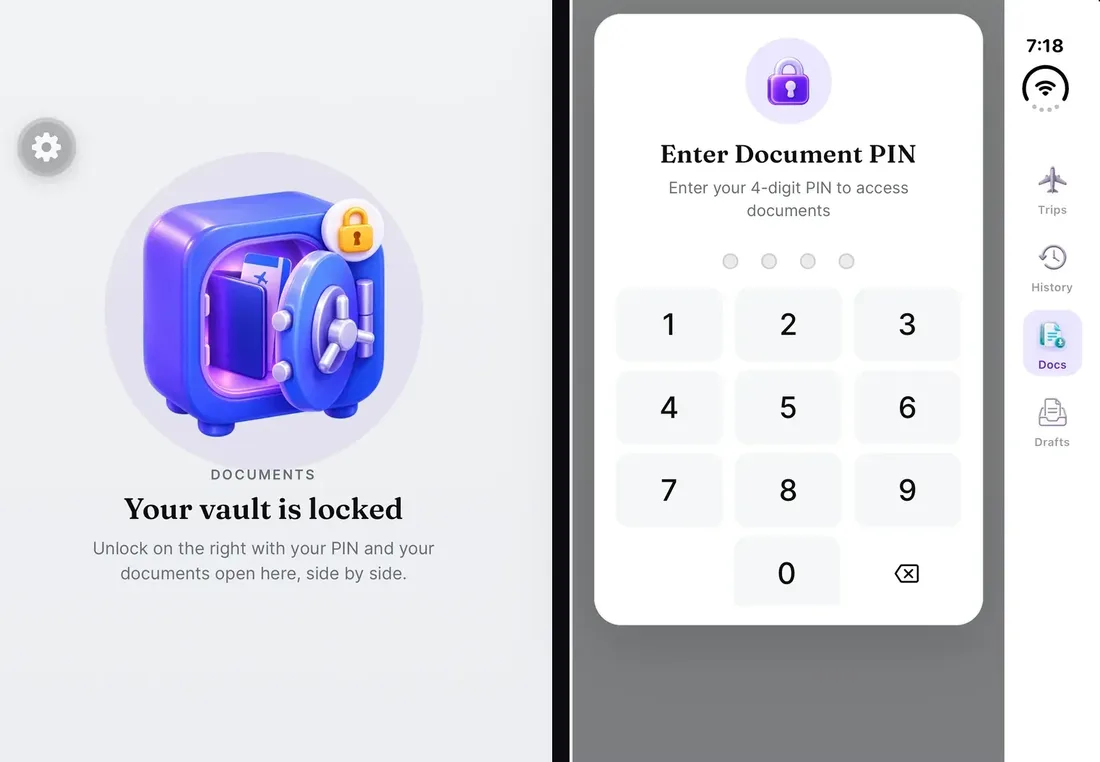
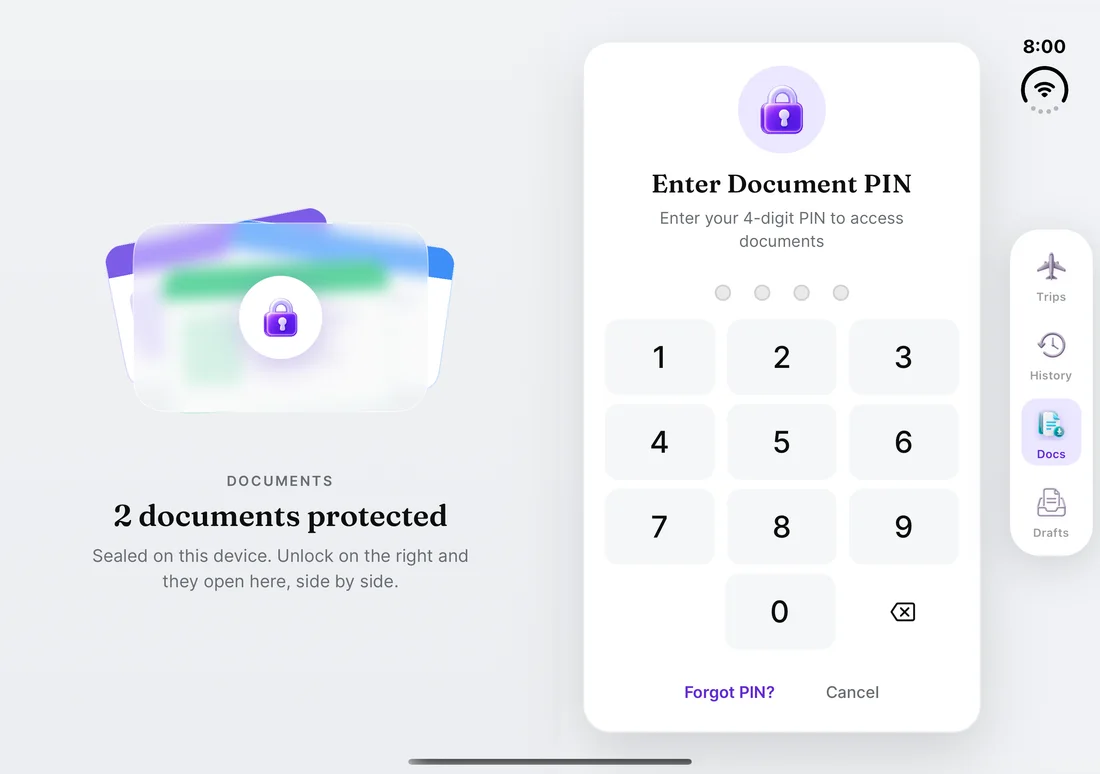
iPhone Duo guide: retake screenshots from the current app UI
Flight, trip and documents screens captured on the iOS 27.1 Duo
simulator (inner display, flat, sideways) from trip-cache-app main,
with the Expo tools button off and the traveler's name blurred.
Alt text and captions now describe the new screens.

diff --git a/content/blog/iphone-duo-travel-apps.ts b/content/blog/iphone-duo-travel-apps.ts
@@ -36,7 +36,7 @@ iPhone Duo went on sale on 23 October 2026. Apple said the day before that more 
 > - Unoptimized apps still run, but in a smaller box on the inner display.
 > - TripCache keeps what you were looking at in place when you open the phone and adds a second page beside it.
 
-![TripCache on iPhone Duo's inner display: a flight board on the left page and the Qantas QF 9401 flight details with a route map on the right](/blog-media/iphone-duo-flight-two-panes.webp 1100x762 "TripCache's flight page on the open Duo: the board on the left, the flight you were viewing on the right.")
+![TripCache on iPhone Duo's inner display: an airport arrivals board for Virgin Australia VA 419 from Adelaide on the left page, and the flight's route map, times, boarding time and seat on the right](/blog-media/iphone-duo-flight-two-panes.webp 1100x774 "A flight on the open Duo: the arrivals board on the left, the flight you were viewing on the right.")
 
 ## How to tell if an app is built for iPhone Duo
 
@@ -66,13 +66,13 @@ The new page fades in from a soft blur as the hinge opens, so nothing flashes or
 
 ### Trips: a cover and its contents
 
-Open a trip with the phone held sideways and it becomes two pages. The left page is the cover: the destination photo, dates, counts of flights, stays and documents, and the trip budget. The right page is the itinerary. The map, budget and documents slide in over the itinerary while the cover stays put.
+Open a trip with the phone held sideways and it becomes two pages. The left page is the cover: the destination photo, dates, counts of flights, hotels, cars and activities, and buttons for the budget, map and documents. The right page is the itinerary. The map, budget and documents slide in over the itinerary while the cover stays put.
 
-![TripCache trip view on iPhone Duo: the Melbourne trip cover with flight, stay and document counts and booked costs on the left, and the trip itinerary on the right](/blog-media/iphone-duo-trip-two-panes.webp 1100x762 "A trip on the open Duo: the cover on the left, the itinerary on the right.")
+![TripCache trip view on iPhone Duo: the Adelaide trip cover with its dates and counts of flights, hotels, cars and activities on the left, and the day-by-day itinerary on the right](/blog-media/iphone-duo-trip-two-panes.webp 1100x774 "A trip on the open Duo: the cover on the left, the itinerary on the right.")
 
 ### Flights: board, map and detail
 
-The flight page you were reading stays on the right. The left page shows a departure board style view of the flight with its countdown, and the right page keeps the flight details with the route map, times, boarding time and seat.
+The flight page you were reading stays on the right. The left page shows the flight as an airport departures or arrivals board, with what's next and the belt and terminal underneath. The right page keeps the flight details with the route map, times, boarding time and seat.
 
 Stand the phone half open on a table, like a small laptop, and TripCache splits the flight the other way: the top half is something to glance at, and the bottom half holds large controls you can reach without picking the phone up.
 
@@ -82,7 +82,7 @@ Stand the phone half open on a table, like a small laptop, and TripCache splits 
 - **Imports:** a forwarded confirmation's draft opens on one page while the list of drafts stays on the other, so you can check the booking against the [email it came from](/features/email-to-itinerary).
 - **History:** past trips are listed on one page, with a globe of everywhere you've been on the other.
 
-![TripCache documents on iPhone Duo: a locked vault illustration on the left page and the document PIN pad on the right](/blog-media/iphone-duo-documents-two-panes.webp 1100x762 "With the vault locked, you enter your PIN on one page and your documents open on the other.")
+![TripCache documents on iPhone Duo: two protected documents shown sealed on the left page and the document PIN pad on the right](/blog-media/iphone-duo-documents-two-panes.webp 1100x774 "With the vault locked, you enter your PIN on the right and your documents open on the left.")
 
 ### Held upright
 

diff --git a/seo/research/image-provenance.md b/seo/research/image-provenance.md
@@ -40,7 +40,7 @@ Inline images are real app UI, resized or cropped with sharp, no content edits. 
 | `ai-agent-trip-card-claude.webp`, `ai-agent-car-added-claude.webp`, `ai-agent-car-booking-chatgpt.webp` | `trip-cache-app/audits/agent-cards/` (MCP Apps cards rendered in the local Claude/ChatGPT host harness from fixtures, 2026-10-29) |
 | `ai-agent-flight-card.webp` | `trip-cache-app/audits/mcp-flight-card/progress-widget/airport.png`, dark-host card |
 | `siri-next-flight-card.webp`, `siri-hotel-card.webp`, `siri-baggage-belt-card.webp` | `trip-cache-app/audits/siri-app-intents/` 15, 16 and 06 (iOS 27 simulator, cropped to the Siri result) |
-| `iphone-duo-*-two-panes.webp` | The left and right inner-display panes in `public/duo/` on the site-features branch (`claude/site-agent-siri-duo-bf92a9`), joined side by side with a 24 px hinge gap |
+| `iphone-duo-*-two-panes.webp` | Inner-display screenshots from the iPhone Duo simulator (iOS 27.1), app running the trip-cache-app `main` JS bundle (1b44de5) on 2026-10-30, phone open flat and sideways. Expo tools button turned off; each shot taken after the screen finished drawing. The traveler's name in the flight page's "Booked for" row is blurred. Resized to 1100 px wide |
 
 ## Covers for the 2026-10-29 guides
 
